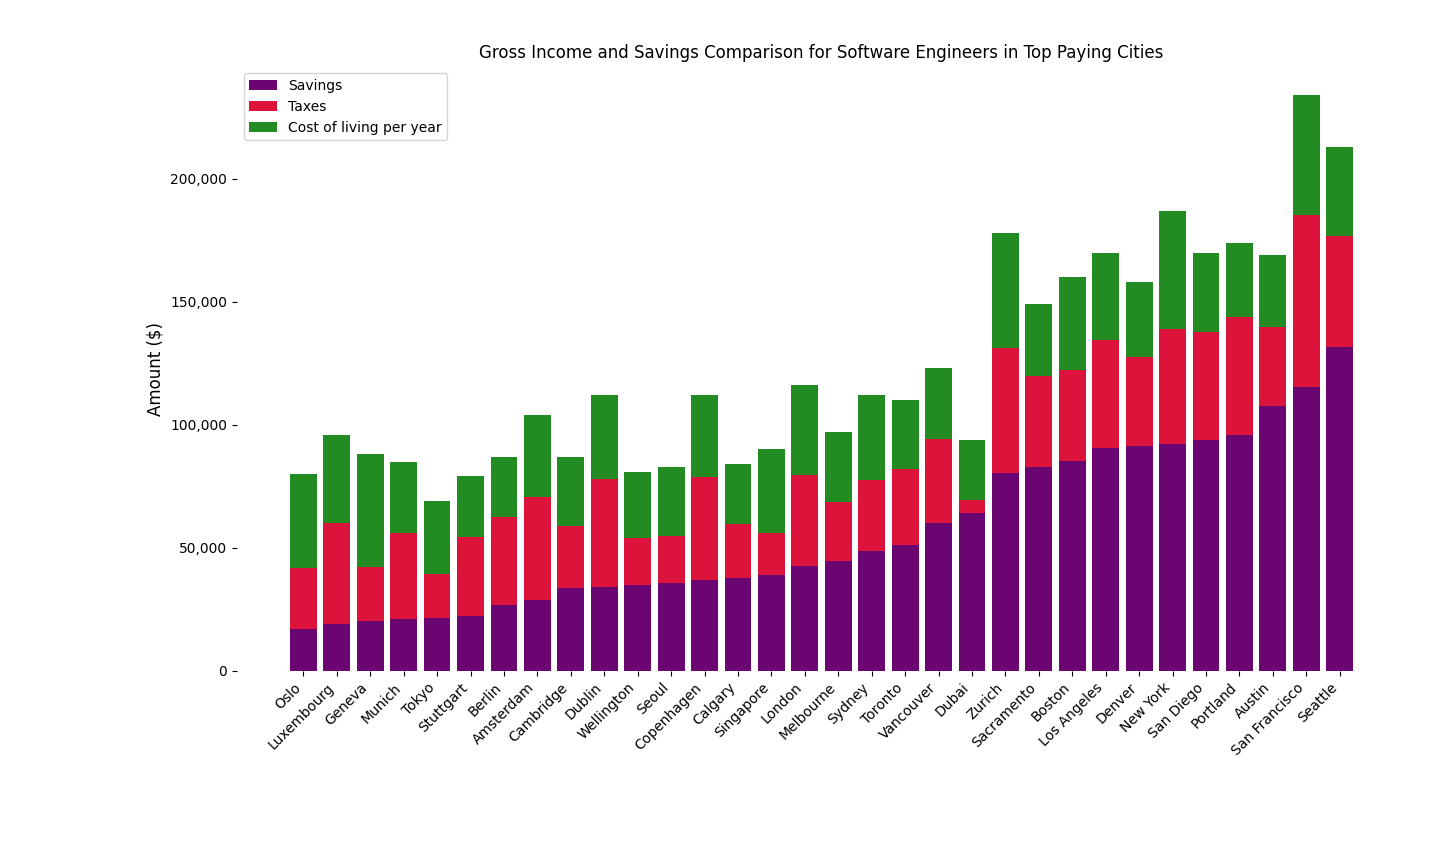
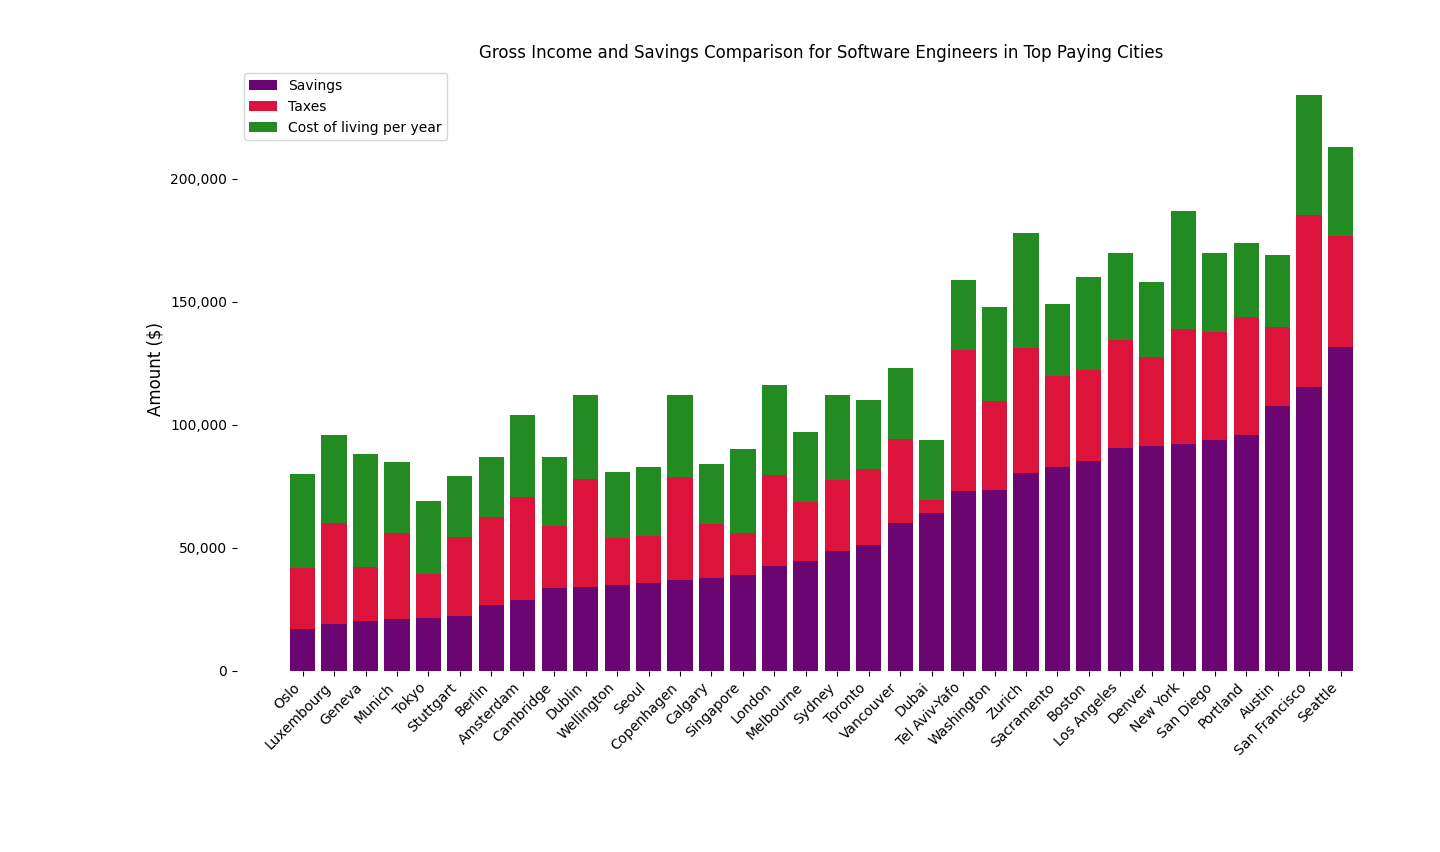
debug telaviv washington

Changed region(s): [[0.1875, 0.2441, 0.9062, 0.885]]

diff --git a/clean_dataset.py b/clean_dataset.py
@@ -20,3 +20,5 @@ dataset_Cost_Living['City'] = dataset_Cost_Living['City'].str.split(',', n=1).st
 
 # Merge datasets based on the 'City' column
 dataset= pd.merge(dataset_income, dataset_Cost_Living, on='City', how='inner')
+
+print(dataset['City'])
